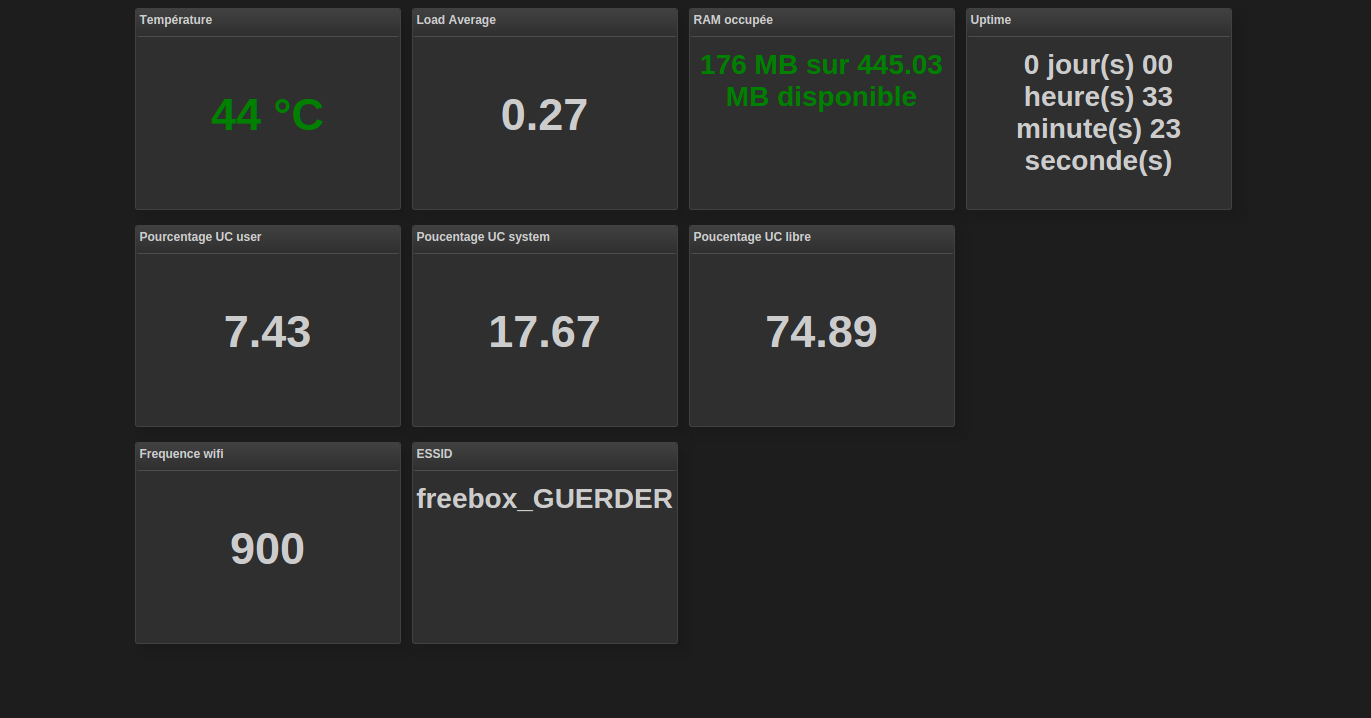
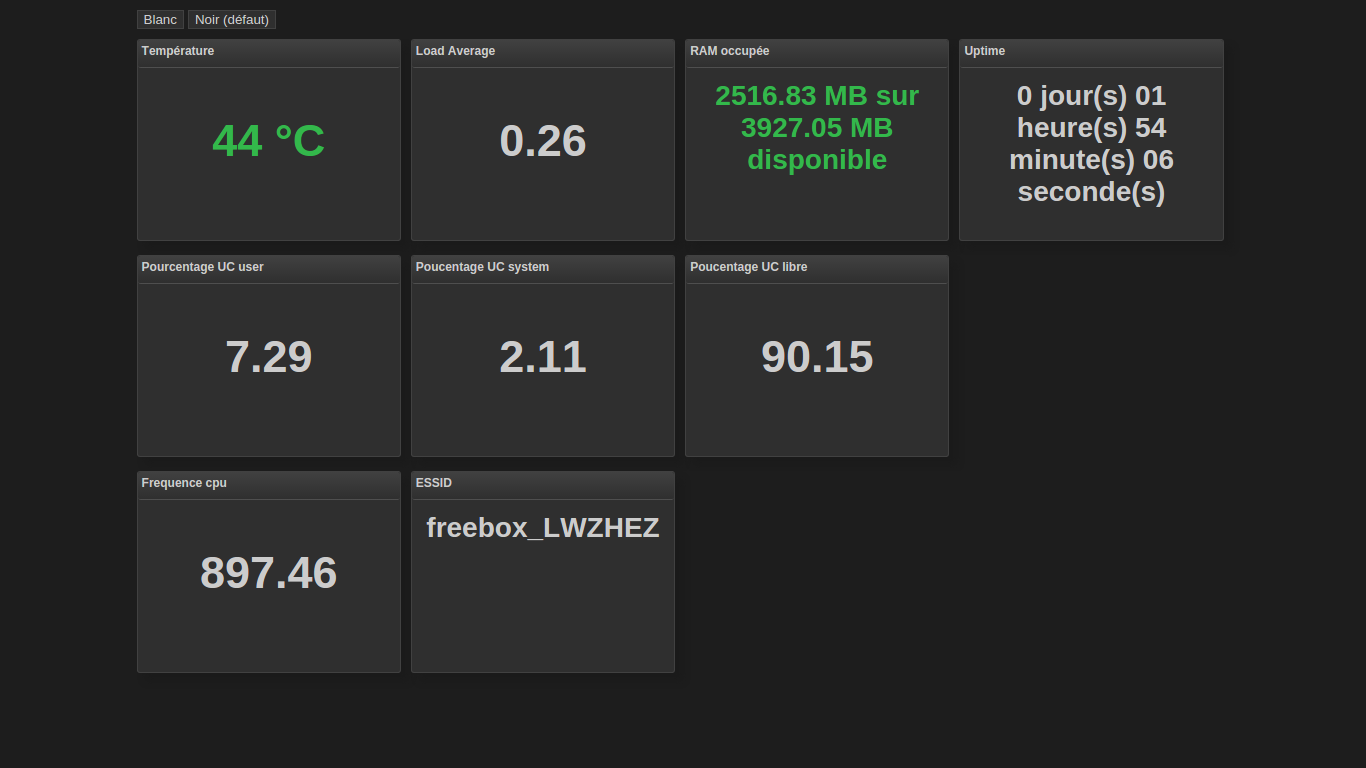
Ajout d'informations

diff --git a/README.md b/README.md
@@ -6,19 +6,18 @@ Interface de monitoring web pour raspberry Pi.
 
 #Ajout récents:
 
-* [Backend] Ajout des fonctions load average,rapport et uptime.
+* [Frontend] Ajout du changement de feuille de style á chaud.
 * [Backend] Performances ameliorées.
-* [Frontend] Creation d'une interface temps réel de base.
-* [Script.js] Ajout d'une variable globale pour le parametrage de l'ip surveillée.  
-* [index.php] Correction du bug de memoire libre fausse.
-* [style.css] Modificqtion de la feuille de style pour eviter le debordement des valeurs
+* [Frontend] Création d'une interface temps réel de base.
+* [Script.js] Ajout d'une variable globale pour le parametrage de l'ip surveillée.
+* [script.js] Correction du bug de colorisation de la memoire utilisée
+* [style.css] Modification de la feuille de style pour éviter le debordement des valeurs
 * [Frontend] Ajout de nouvelles tuiles d'information 
 
 #To-do: 
  
-* [Frontend] Ajout de graphiques pour mieux illustrer les valeurs afficher. 
+* [Frontend] Ajout de graphiques pour mieux illustrer les valeurs affichées. 
 * [Backend/Frontend] Création d'une documentation.
-* [Frontend] Ajout d'une page de parametrage.
 
 #ScreenShot: 
 
@@ -53,14 +52,19 @@ chown www-data index.php
 *  Modifier script.js pour parametrer l'ip
 ```
 sudo vim script.js
-[retirez 192.168.0.10 et placez y votre ip locale ] 
+[retirez 192.168.0.10 et placez-y votre ip locale ] 
 ```
+Note : Si le monitoring se situe dans un sous-dossier comme par exemple /var/www/html/votreDossier moddifier 192.168.0.10 par votreIp/votreDossier.
 
 #Utilisation: 
 
-Ouvrez une page de votre navigateur favoris et tapez 
+Ouvrez une page de votre navigateur favori et tapez 
 ```
 http://votreIP/monitor.html 
 
+```
+Note: Si les fichiers sont placés dans un sous-dossier (/var/www/html/monDossier) tapez :
+```
+http://votreIP/monDossier/monitor.html
 ```
 
